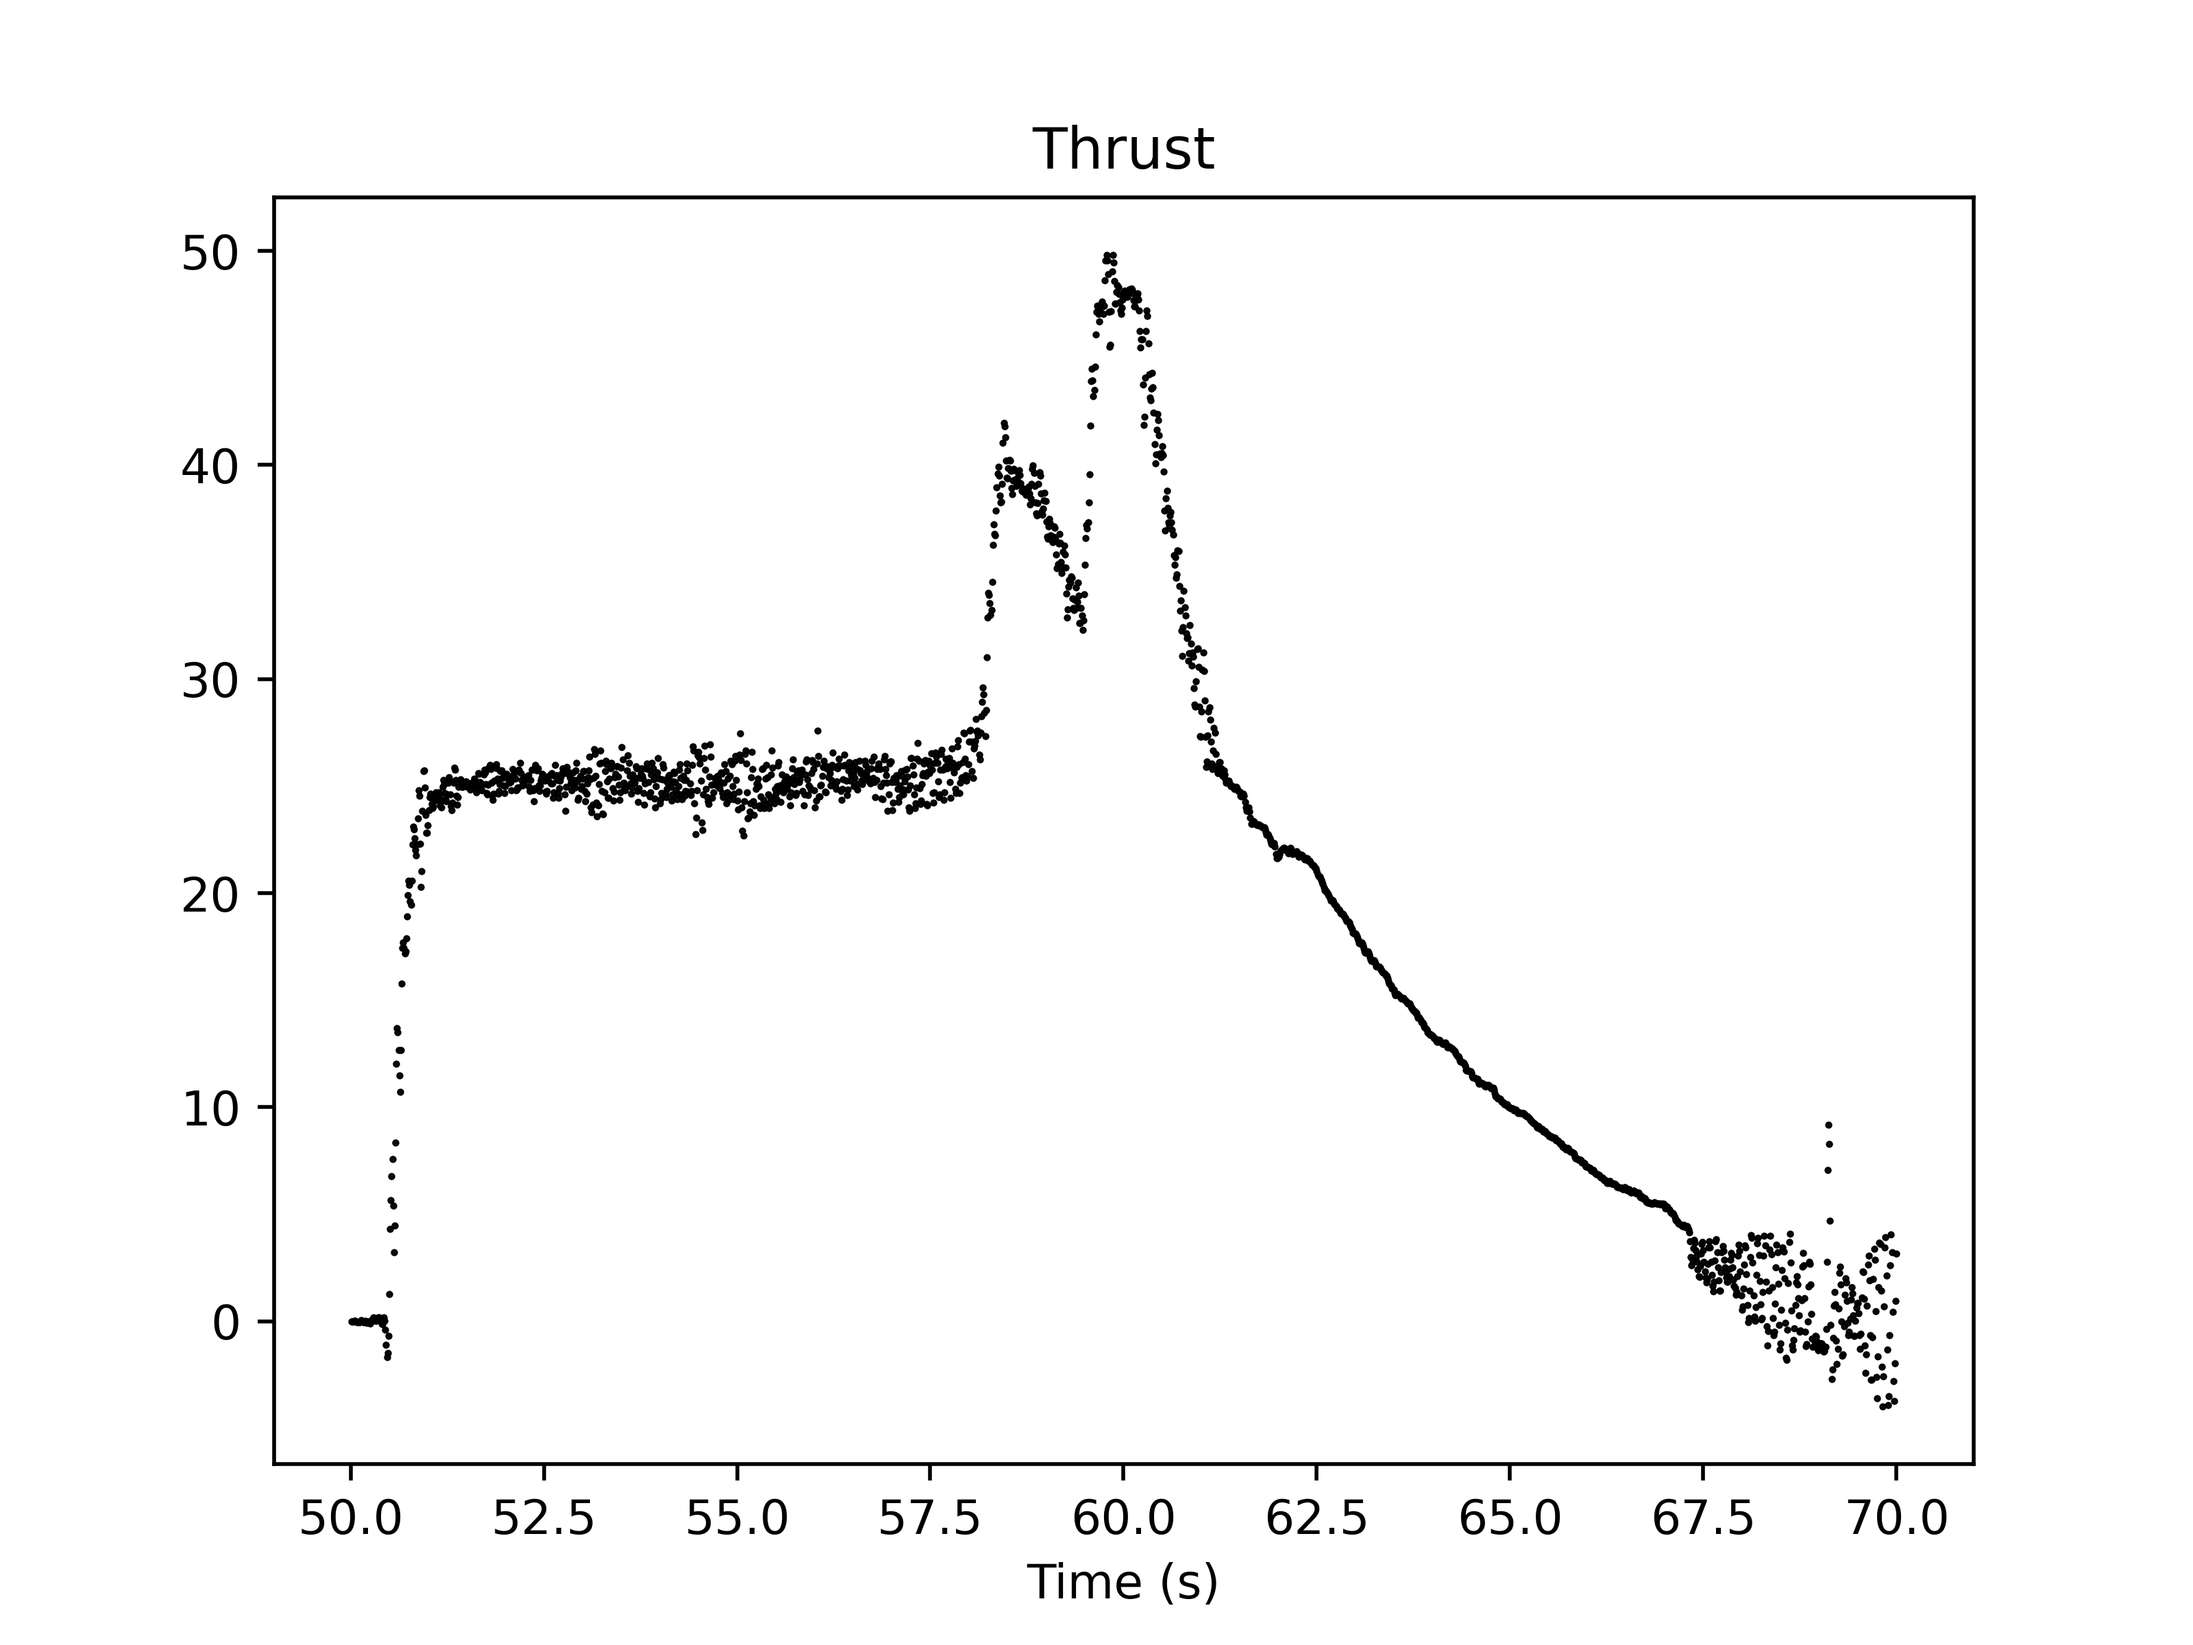
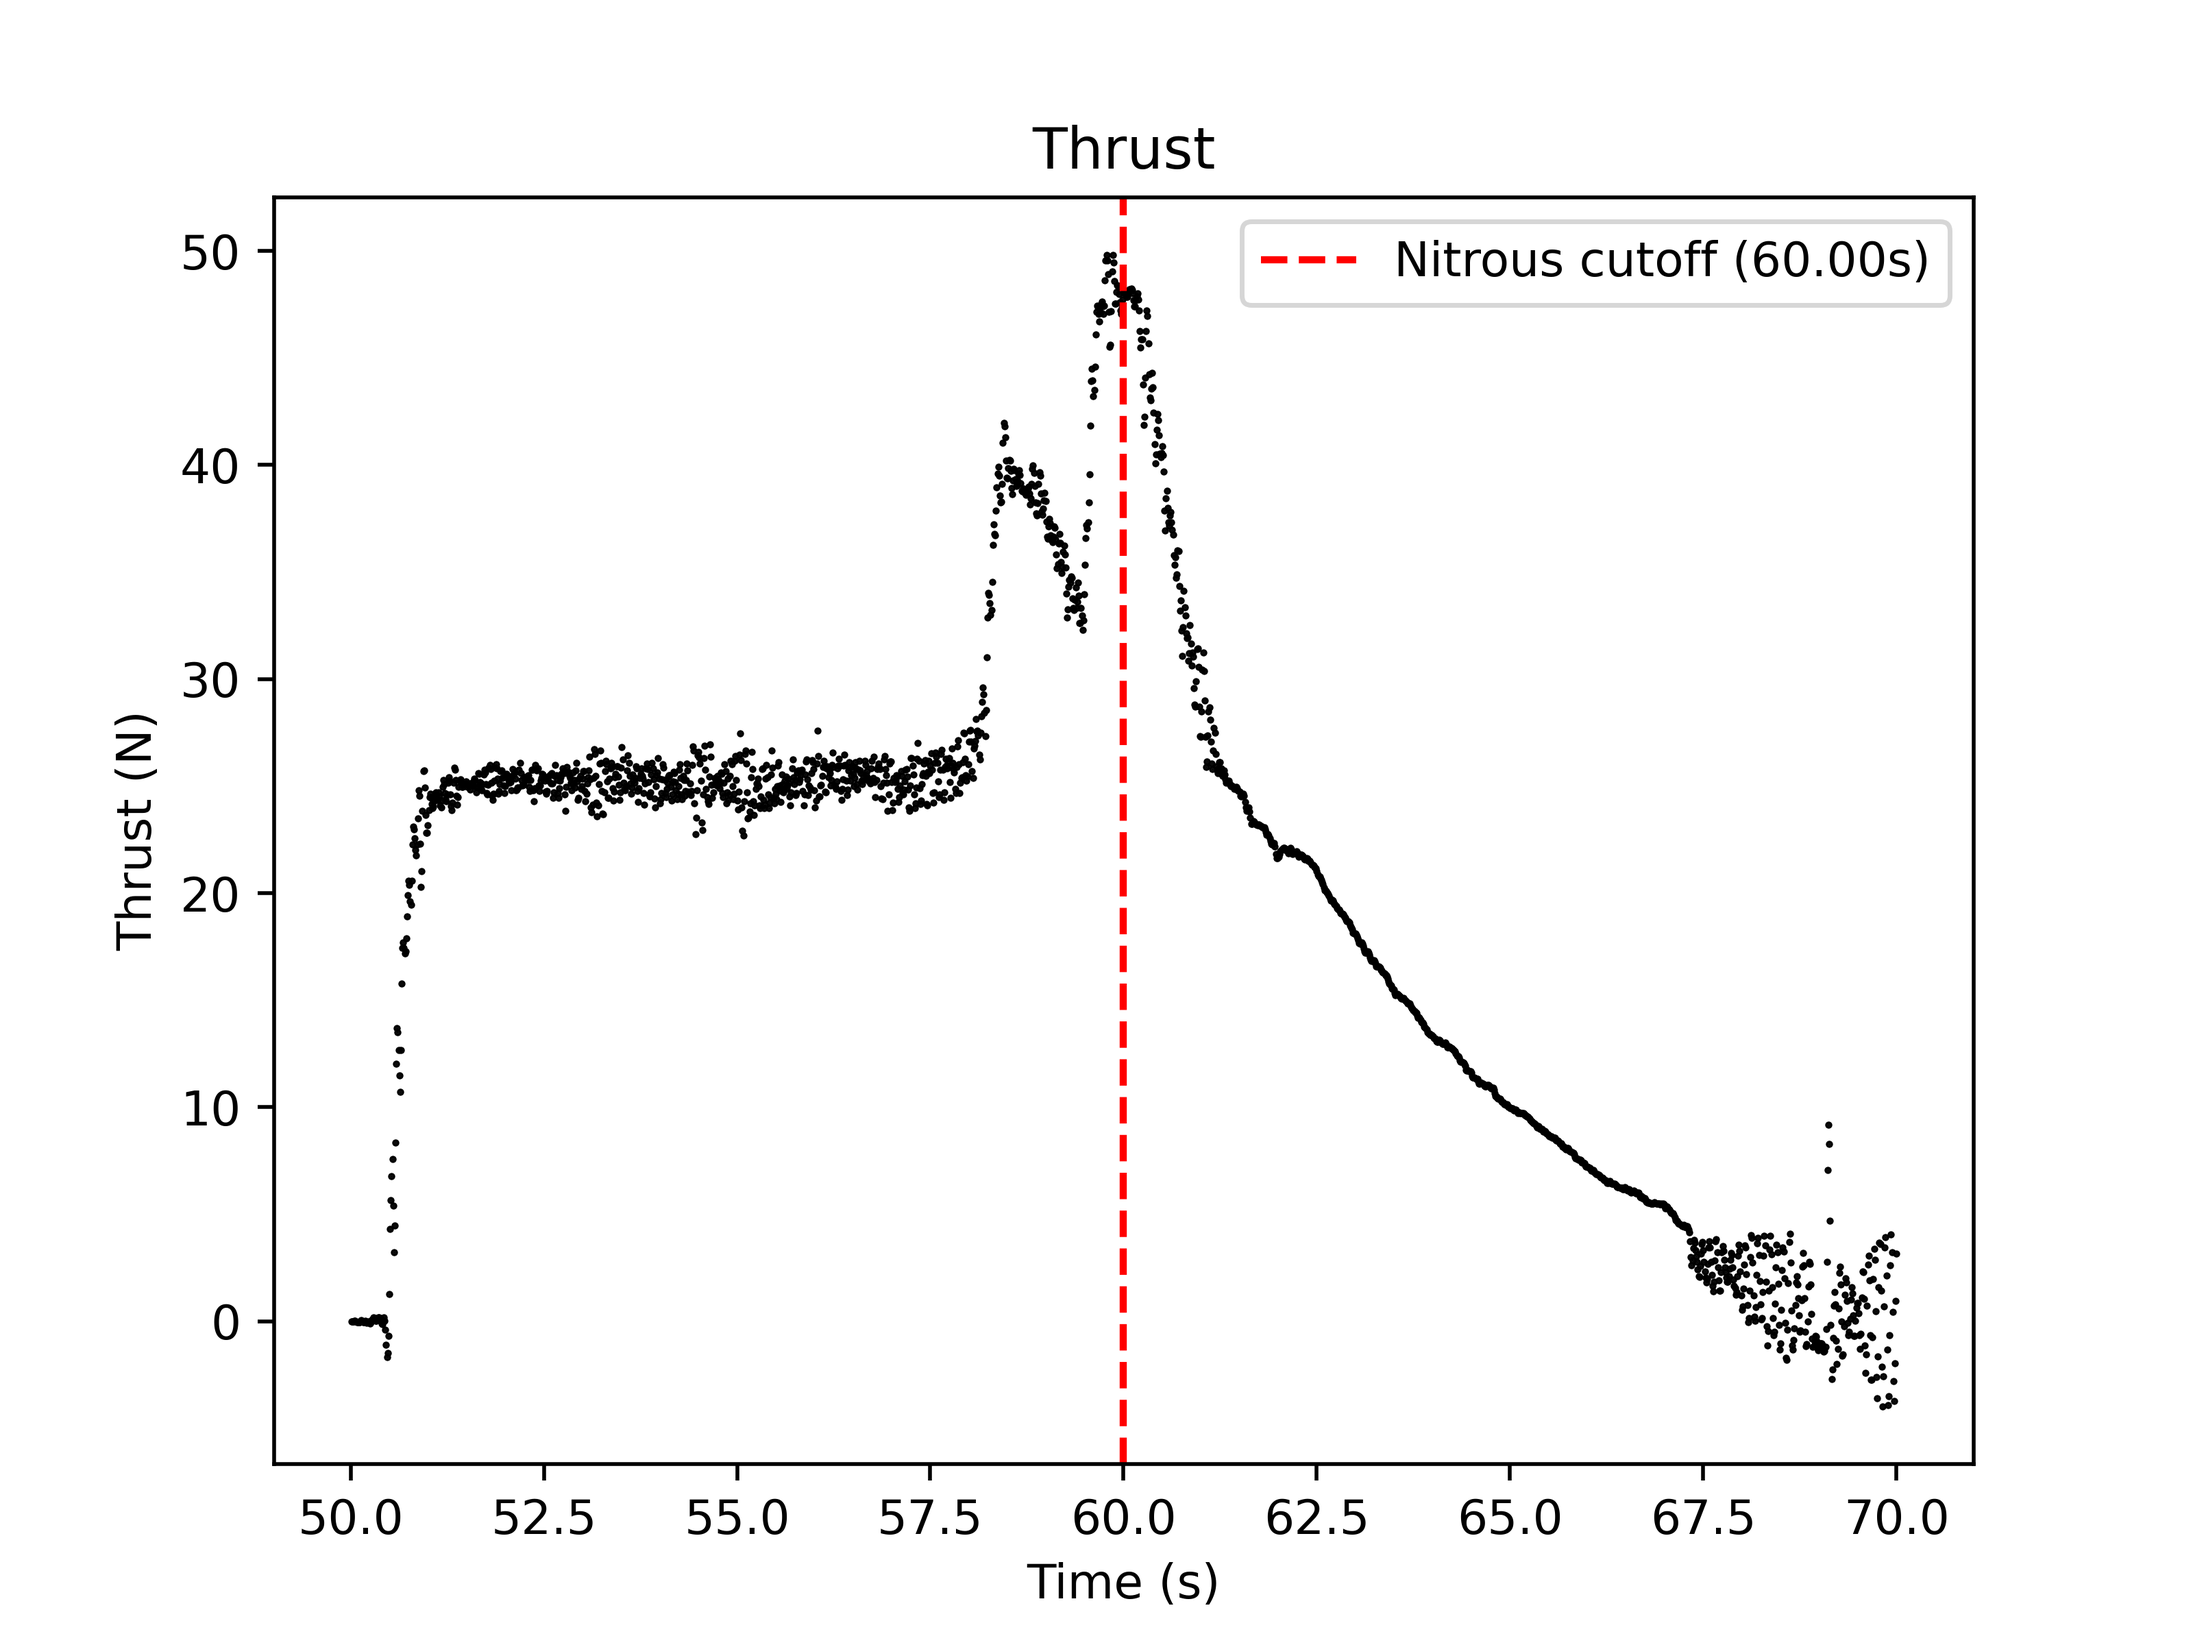
Small improvements to thrust plot

Changed region(s): [[0.5625, 0.125, 0.9062, 0.1875], [0.0312, 0.4375, 0.0625, 0.4688]]

diff --git a/hotfire_plots.py b/hotfire_plots.py
@@ -8,6 +8,7 @@ import scipy.integrate
 OUT_DIR = 'data/hotfire_plots/'
 TIME_START = 50
 TIME_END = 70   
+NITROUS_CUTOFF = 60
 
 #Open the H5 file in read mode
 with h5py.File('data/Aberdeen_5_HOTFIRE.h5', 'r') as file:
@@ -37,7 +38,11 @@ with h5py.File('data/Aberdeen_5_HOTFIRE.h5', 'r') as file:
 
     plt.title('Thrust')
     plt.plot(time[start_index:end_index], thrust_values[start_index:end_index], 'o', color='0', ms=0.5)
+    plt.axvline(NITROUS_CUTOFF, label=f'Nitrous cutoff ({NITROUS_CUTOFF:.2f}s)', ls='--', color='r')
+
     plt.xlabel('Time (s)')
+    plt.ylabel('Thrust (N)')
+    plt.legend()
 
     plt.savefig(f'{OUT_DIR}/thrust.png', dpi=500)
     plt.close()
